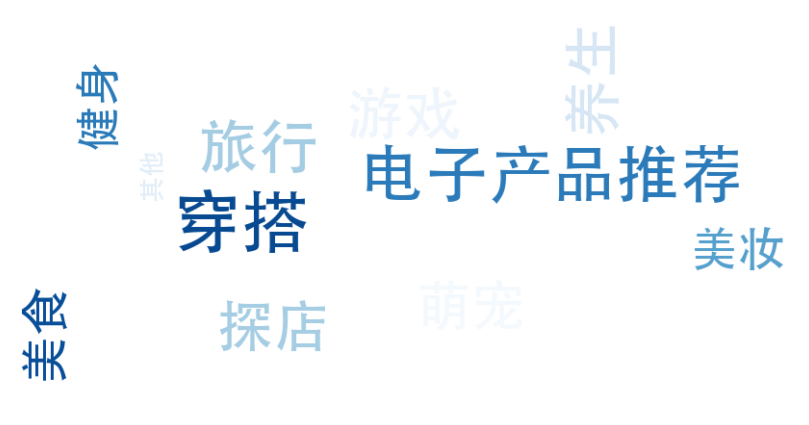
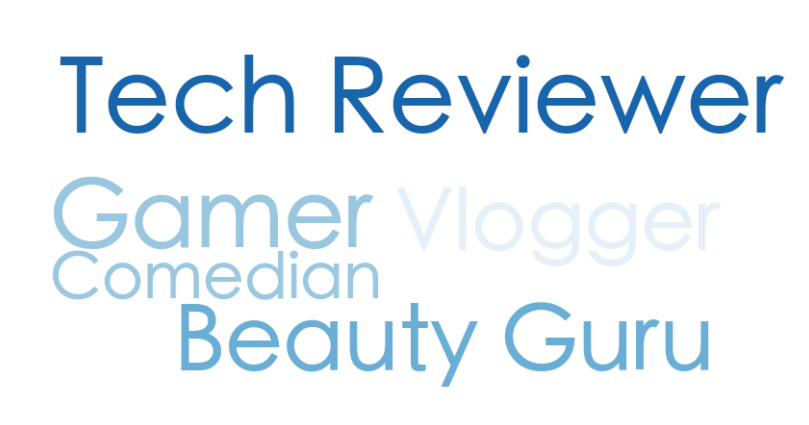
Finish the input function so that user could input data from terminal

Changed region(s): [[0.0309, 0.0612, 0.9889, 0.9176], [0.618, 0.7035, 0.8962, 0.8871]]

diff --git a/wc.py b/wc.py
@@ -1,6 +1,7 @@
 import matplotlib.pyplot as plt
 from wordcloud import WordCloud
 
+
 def generate_wordcloud(types, counts):
     """
     Generate a visually appealing word cloud based on YouTuber types and fan counts.
@@ -13,25 +14,6 @@ def generate_wordcloud(types, counts):
     Dependencies:
     - WordCloud: The WordCloud class is used from the `wordcloud` library.
     - matplotlib.pyplot: Matplotlib is used for creating the plot.
-
-    Example Usage:
-    ```python
-    types = ["美食", "旅行", "健身", "美妆", "穿搭", "探店", "游戏", "电子产品推荐", "养生", "萌宠", "其他"]
-    fan_counts = [43, 66, 36, 40, 87, 56, 61, 74, 60, 54, 5]
-    save_path = "wordcloud_image.png"
-    generate_wordcloud(types, fan_counts, save_path)
-    ```
-
-    Note:
-    - The function uses a system font for the word cloud display.
-    - The WordCloud is generated using the `wordcloud` library, with specified width, height, background color,
-      font path, and colormap.
-    - The resulting word cloud image is displayed using matplotlib.pyplot.
-    - The image is saved to the specified file path.
-
-    :param types: List of YouTuber types
-    :param counts: List of corresponding fan counts
-    :param save_path: Path to save the image file (default is "wordcloud_image.png").
     """
     words = {types[i]: counts[i] for i in range(len(types))}
 
@@ -50,8 +32,59 @@ def generate_wordcloud(types, counts):
     plt.savefig(save_path, bbox_inches='tight', pad_inches=0.2)
     plt.show()
 
-types = ["美食", "旅行", "健身", "美妆", "穿搭", "探店", "游戏", "电子产品推荐", "养生", "萌宠", "其他"]
-fan_counts = [43, 66, 36, 40, 87, 56, 61, 74, 60, 54, 5]
 
-save_path = "wordcloud_image.png"
-generate_wordcloud(types, fan_counts)
+def inputs():
+    """
+        Take user input for YouTuber types and fan counts.
+
+        Returns:
+        - input_type: List of YouTuber types
+        - count_list: List of corresponding fan counts
+    """
+    inputtypes = input("Enter the types separate by ',': ")
+    input_type = inputtypes.split(',')
+    print(f"You entered: {input_type}")
+
+    inputcounts = input("Enter the counts separate by ',': ")
+    count_list = inputcounts.split(',')
+    try:
+        # Convert each string in the list to an integer
+        count_list = [int(num) for num in count_list]
+        print(f"You entered: {count_list}")
+
+    except ValueError:
+        print("Invalid input. Please enter a valid list of integers.")
+
+    return input_type, count_list
+
+
+if __name__ == "__main__":
+    """
+    Example Usage:
+    ```
+    types = ['Gamer', 'Vlogger', 'Tech Reviewer', 'Comedian', 'Beauty Guru']
+    fan_counts = [1000000, 800000, 1200000, 600000, 900000]
+    save_path = "wordcloud_image.png"
+    generate_wordcloud(types, fan_counts, save_path)
+    ```
+
+    Note:
+    - The function uses a system font for the word cloud display.
+    - The WordCloud is generated using the `wordcloud` library, with specified width, height, background color,
+      font path, and colormap.
+    - The resulting word cloud image is displayed using matplotlib.pyplot.
+    - The image is saved to the specified file path.
+
+    :param types: List of YouTuber types
+    :param counts: List of corresponding fan counts
+    :param save_path: Path to save the image file (default is "wordcloud_image.png").
+    
+    """
+    # Get user input
+    types, counts = inputs()
+
+    # Set default save path
+    save_path = "wordcloud_image.png"
+
+    # Generate and display word cloud
+    generate_wordcloud(types, counts)
